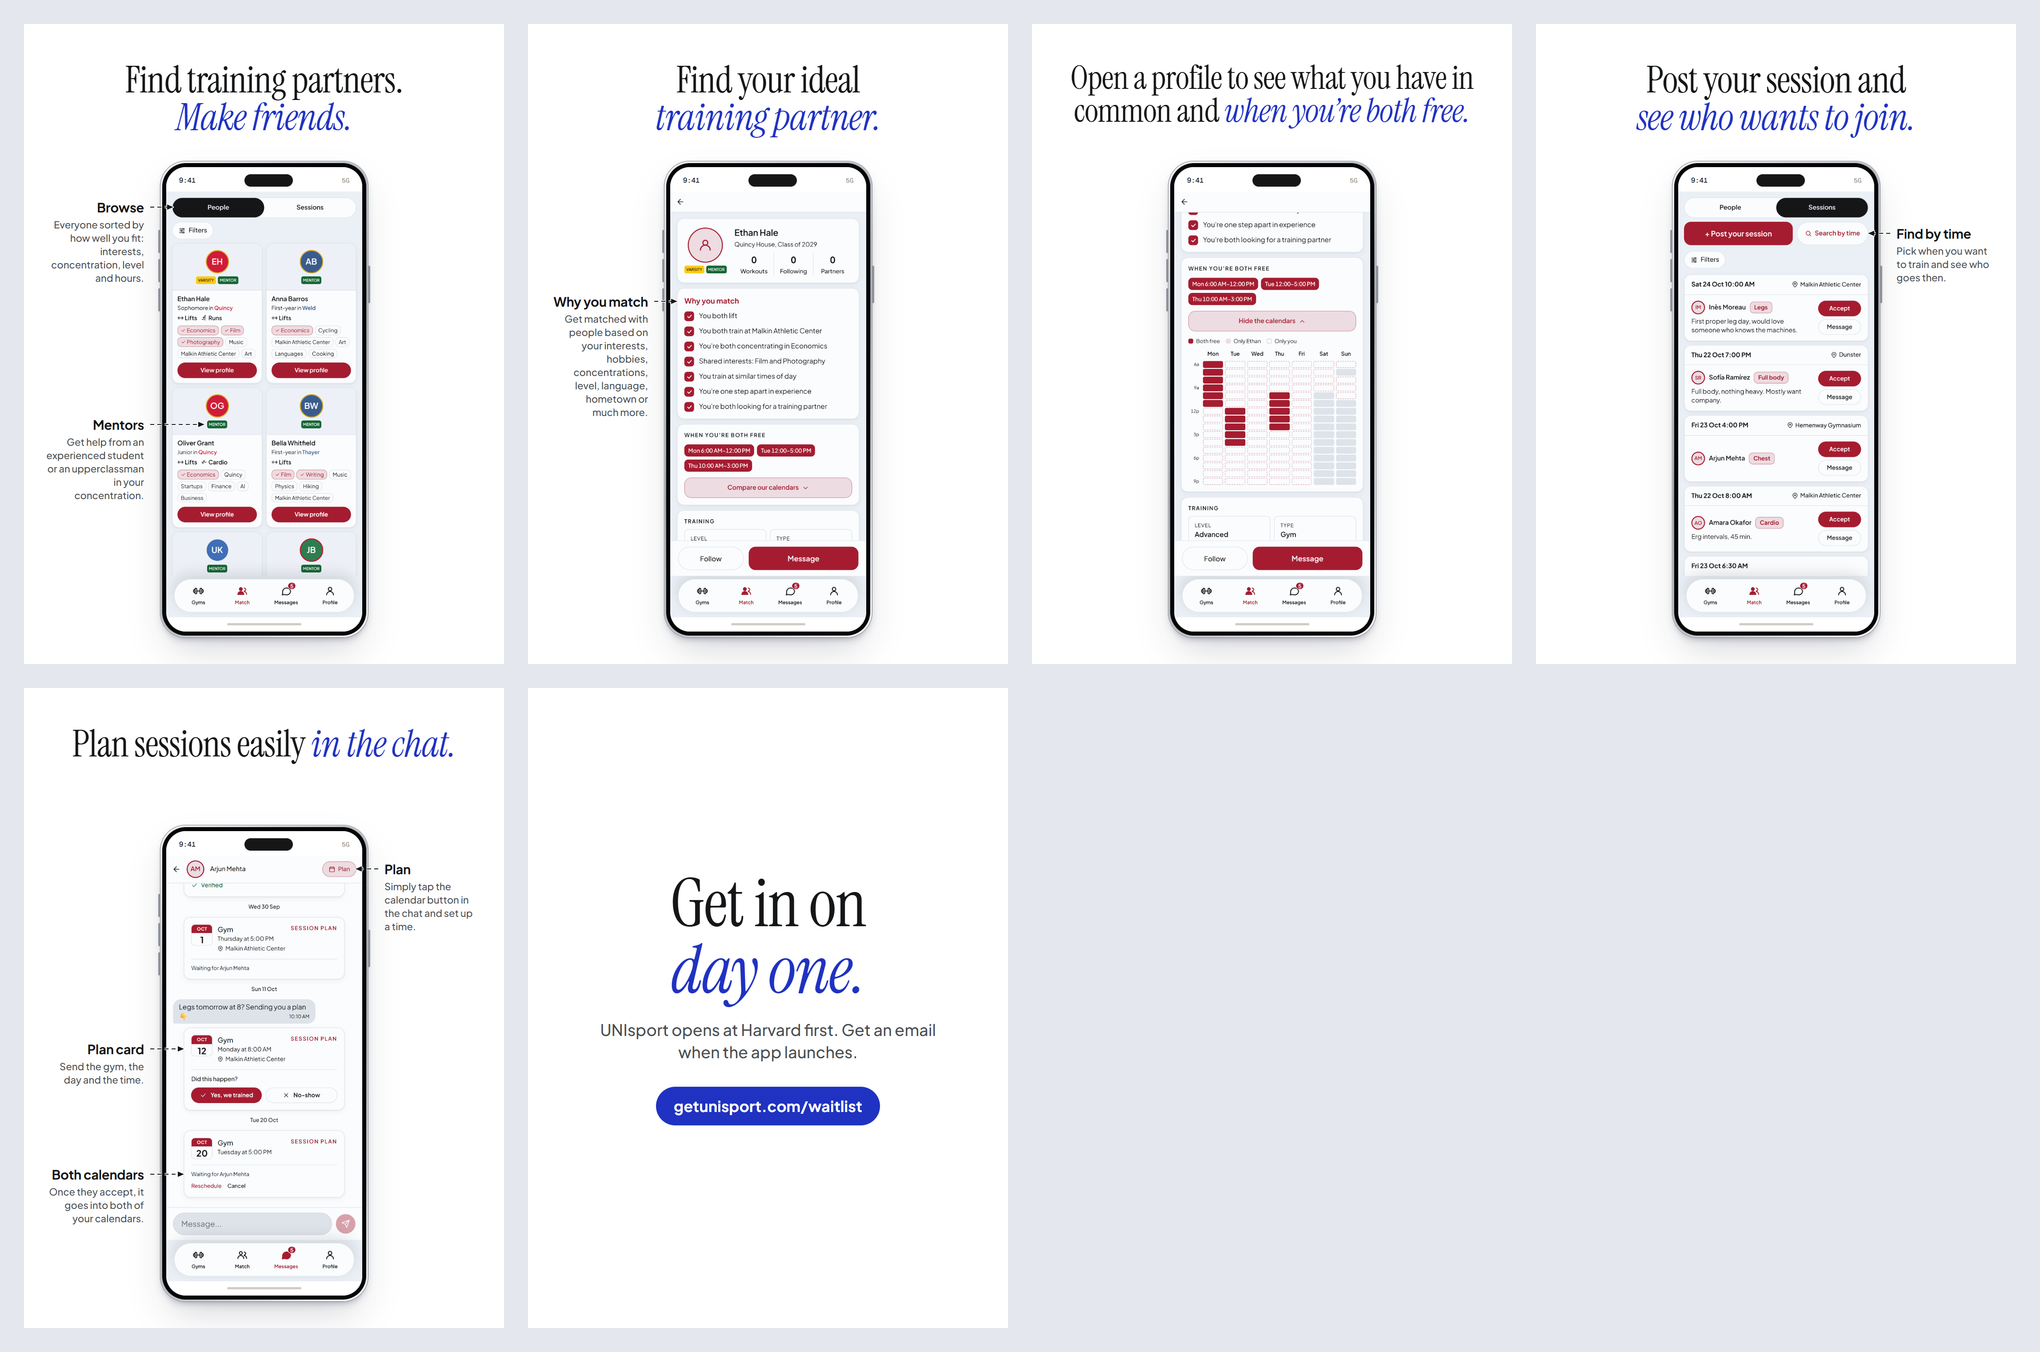
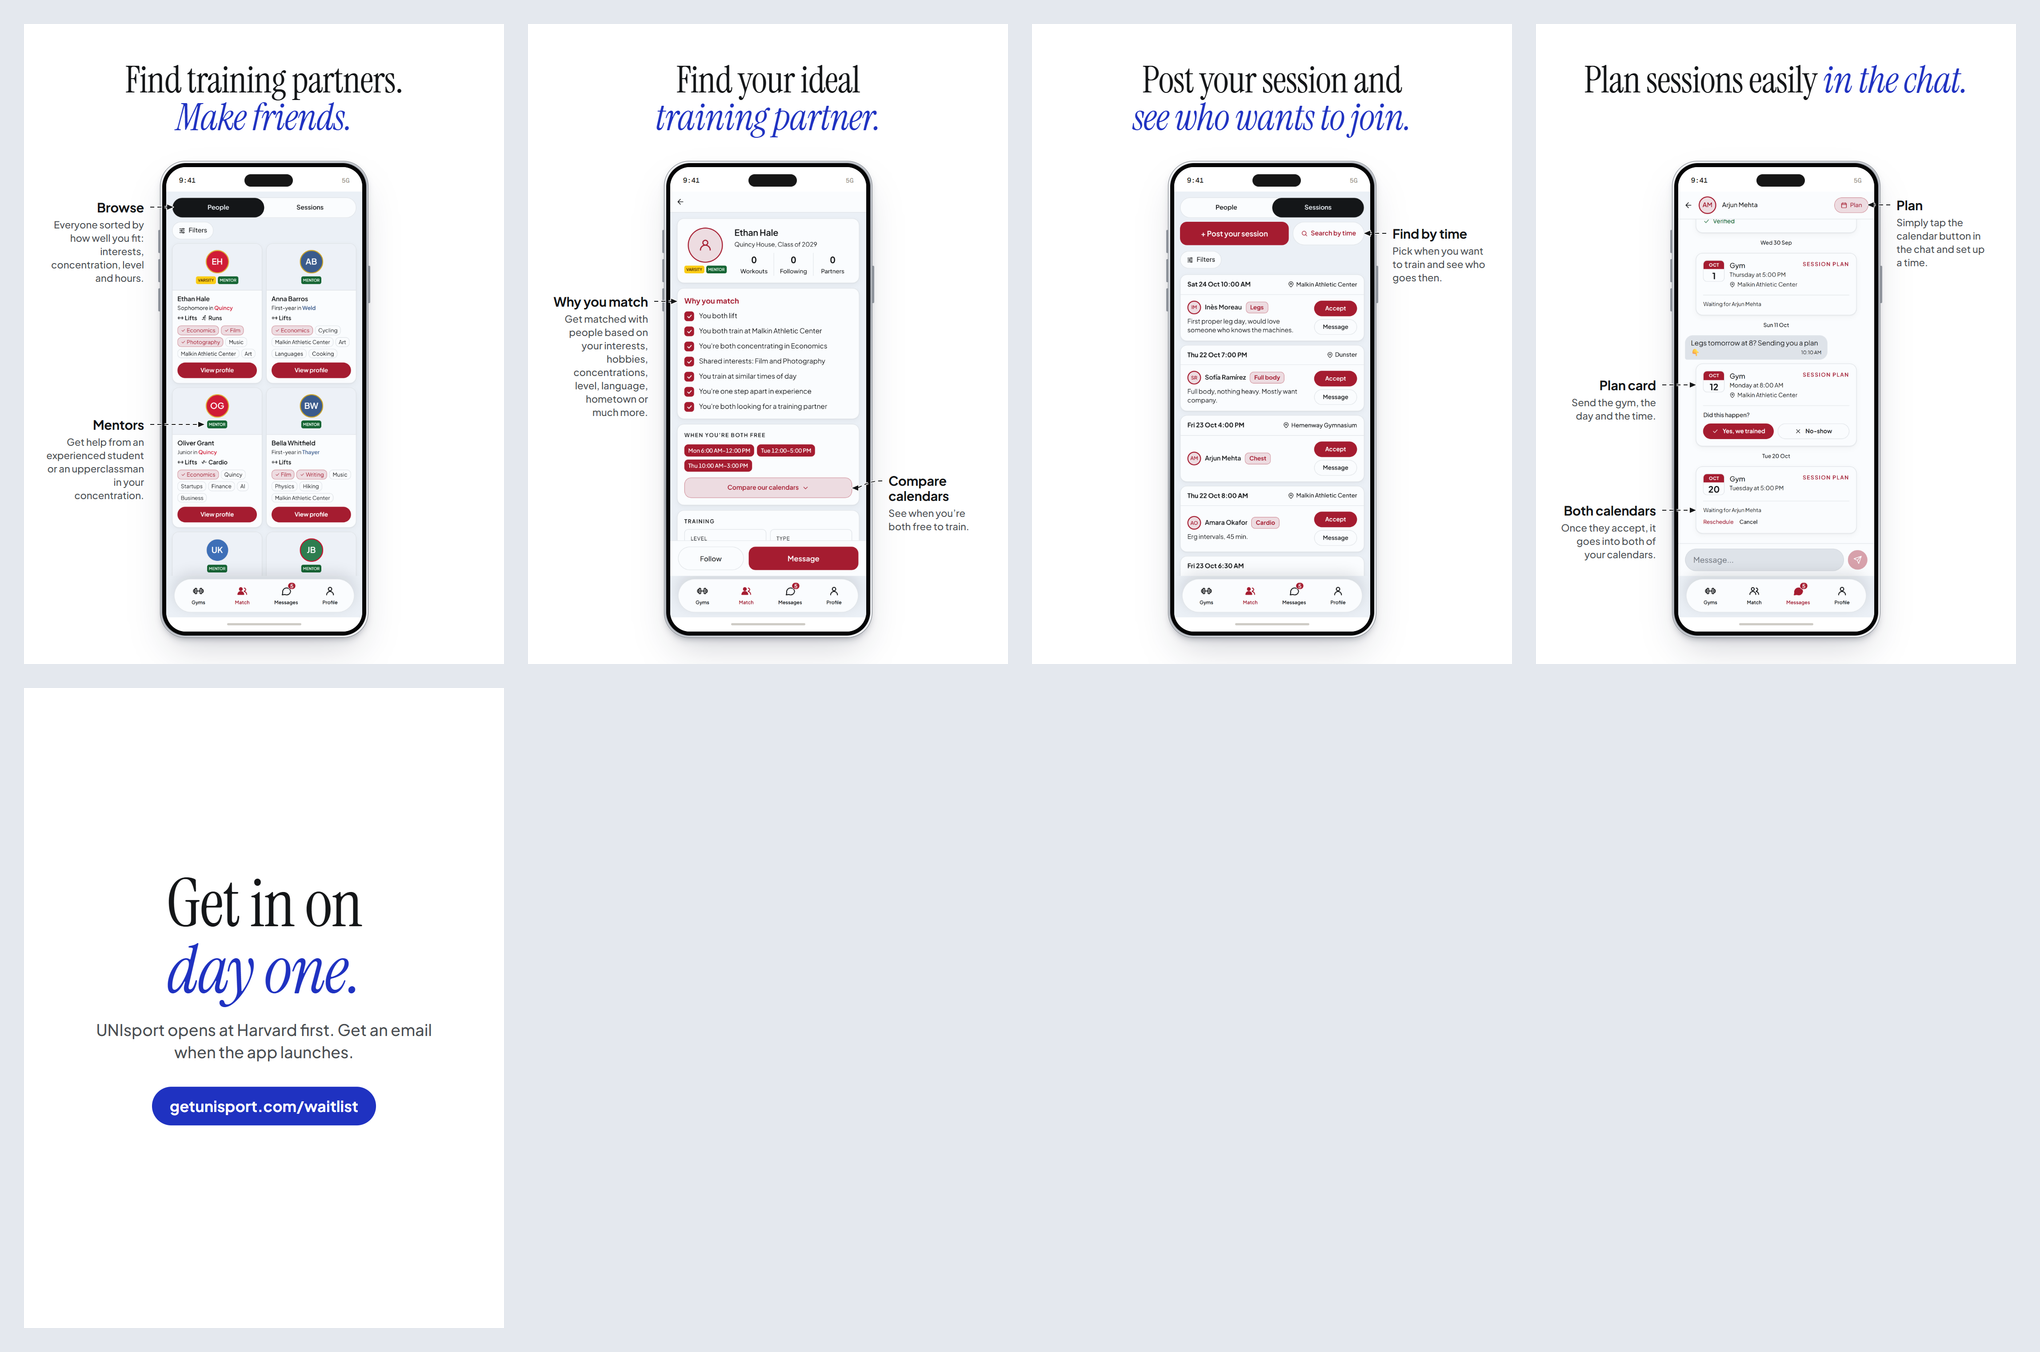
social: Match post cut to 5, the calendars a label on the profile
Owner: "cut 3 and jsut describe calendar on second image with arrow".
The both-weeks slide is gone; the profile slide now has "Compare
calendars, See when you're both free to train." on the right, its arrow
on the Compare our calendars button. Rule in NO-SLOP.md 27.

diff --git a/NO-SLOP.md b/NO-SLOP.md
@@ -157,6 +157,9 @@ own words, the date. Newest at the bottom of each part.
     2026-09-28: "just make the phone straight … realistic"; 2026-10-22: "smaž to match
     nahoře to z té webovky ten malý text a udělej tu šipku šipkou na konec a udělej ji
     přerušovaně tu čáru".)
+    A part of a screen another slide already shows (the calendars on the profile) is a label
+    with an arrow on that slide, never a slide of its own. (2026-10-22: "cut 3 and jsut
+    describe calendar on second image with arrow".)
 28. **Video sound is soft**: instrumental songs only, no aggressive sound effects, none at all
     except the connecting moment. Real downloaded sounds, never synthesised. No speed changes.
     (2026-09-22: "dont want the sounds to be aggressive rather … smooth"; 2026-09-27: "skip all

diff --git a/SOCIAL.md b/SOCIAL.md
@@ -465,7 +465,7 @@ log workouts to earn points and memories. and then the leaderboards"):
 
 | Post | Slides | Where |
 |---|---|---|
-| Match, 6 | Match list (Browse, Mentors), a profile (Why you match), both weeks compared, Sessions (Find by time), the plan in the chat, the waitlist | `mockups/social/post-match/` |
+| Match, 5 | Match list (Browse, Mentors), a profile (Why you match, Compare calendars), Sessions (Find by time), the plan in the chat, the waitlist | `mockups/social/post-match/` |
 | Profile, 4 | Profile (Log, Calendar, Memories), the Log sheet (points, Add a photo), Leaderboards (Points, Competition), the waitlist | `mockups/social/post-profile/` |
 
 Both come from `node scripts/social/launch-carousel.mjs post-match` / `post-profile`. Lines
